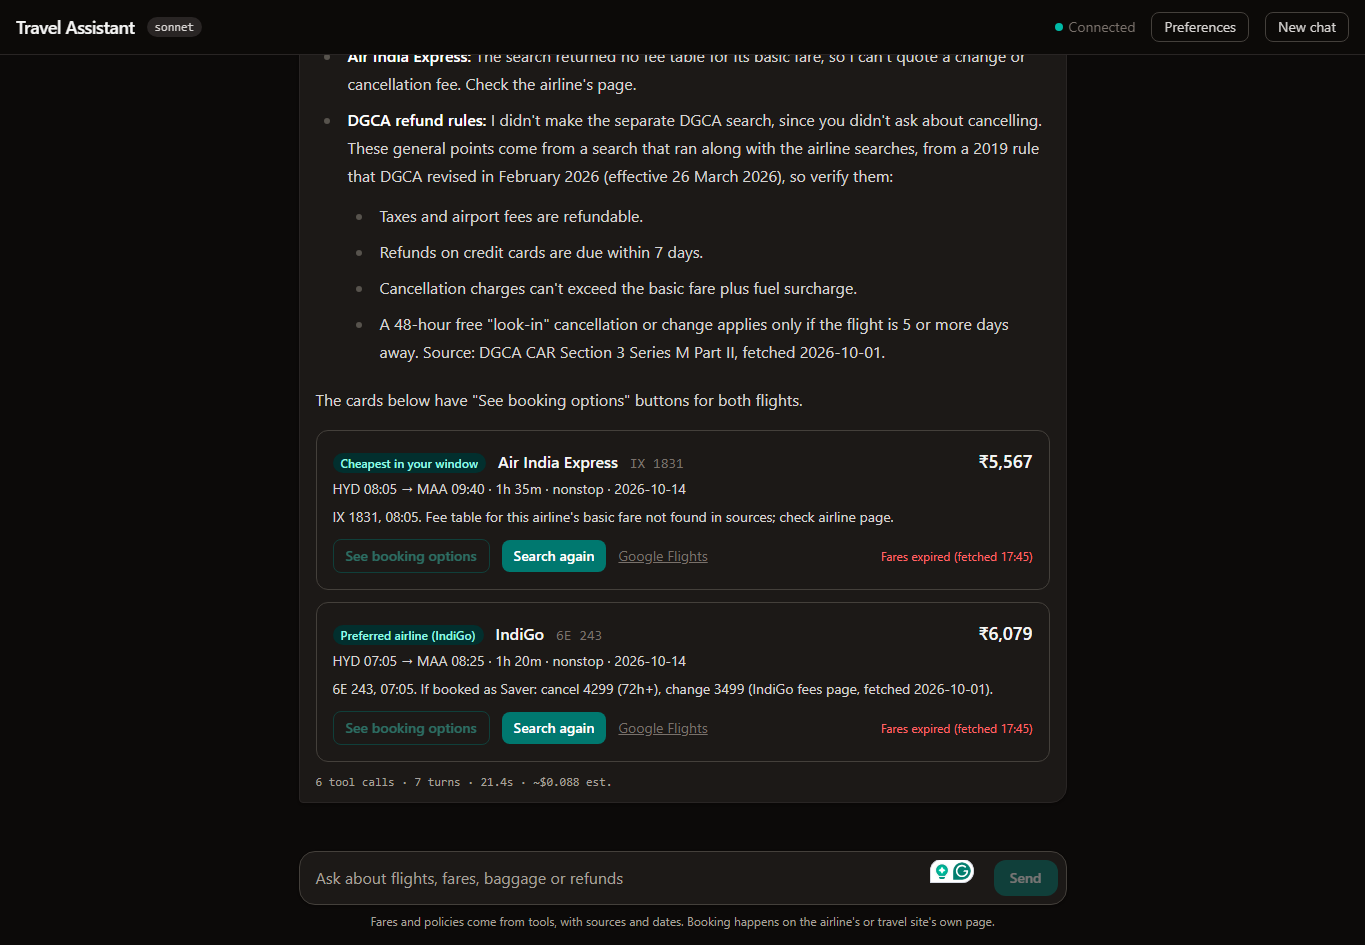
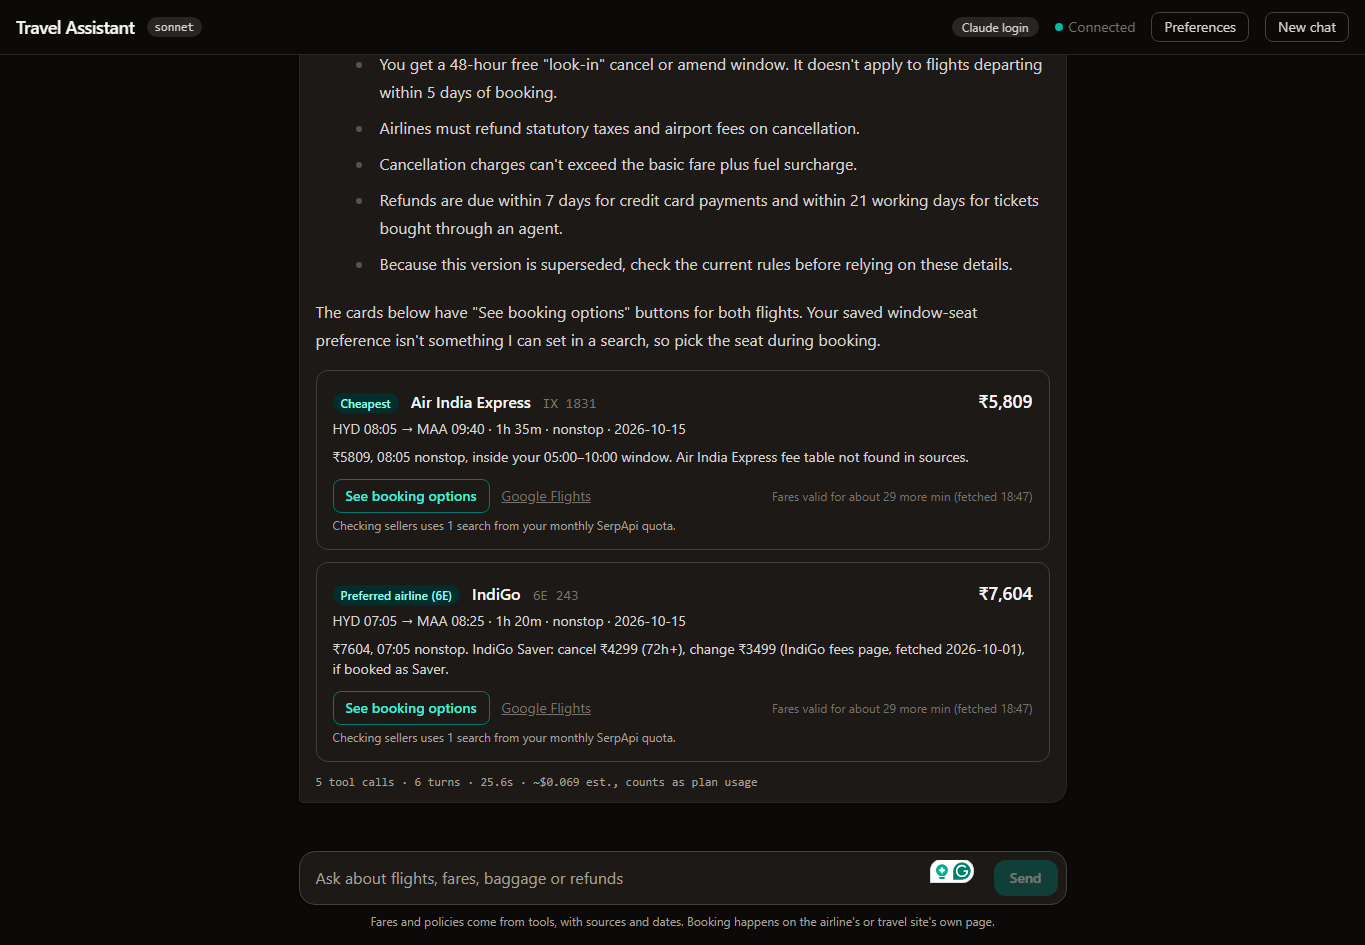
docs: refresh README screenshots (Claude login badge, clean card step)
Claude-Session: https://claude.ai/code/session_01QP7JMiB12MUZHodQPm79G6

Changed region(s): [[0.2154, 0.0, 0.7692, 0.7979], [0.7077, 0.3989, 0.7692, 0.4296]]

diff --git a/README.md b/README.md
@@ -8,7 +8,7 @@ suite. It's built with **MCP**, **RAG**, the **Claude Agent SDK** and determinis
 
 ## See it in action
 
-A real run in the web UI: "Cheapest non-stop flight to Chennai on Oct 14", with saved preferences
+A real run in the web UI: "Cheapest flight to Chennai on Oct 15", with saved preferences
 (home HYD, nonstop, 05:00–10:00, prefers IndiGo).
 
 **1. Preferences: pick airports and airlines by name; every search uses them**
@@ -19,9 +19,9 @@ A real run in the web UI: "Cheapest non-stop flight to Chennai on Oct 14", with 
 
 ![Chat answer](docs/images/chat-answer.png)
 
-The ✗ step is the grounding check at work: the model garbled a booking token, the backend refused
-to show a card for a flight that wasn't in the search results, and the model retried. Cards are now
-keyed by flight number, which is harder to garble.
+The "Claude login" badge shows what the agent runs on: your Claude login when one is found on
+your computer, otherwise an Anthropic API key you enter ([details](docs/ui.md#claude-access-login-or-api-key)).
+Fees are quoted for the basic fare type ("if booked as Saver"), never a pricier one.
 
 **3. Flight cards filled from the real search result, with fare expiry**
 
